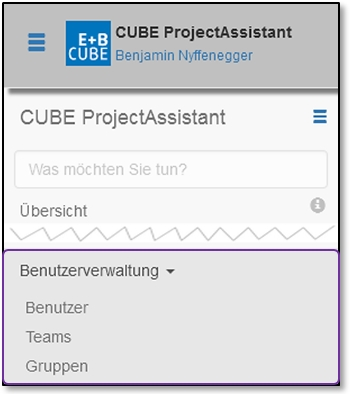
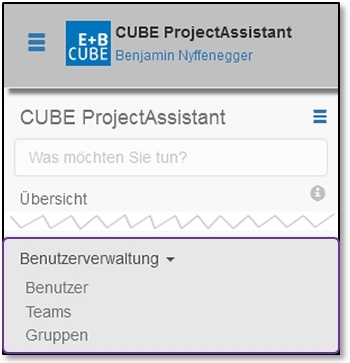
[german] diverse Anpassungen
Verschiedene Anpassungen
- GettingStarted
- Konfiguration
- Benutzerverwaltung

diff --git a/german/chapters/13_Konfigurationen/13_Konfigurationen.tex b/german/chapters/13_Konfigurationen/13_Konfigurationen.tex
@@ -98,6 +98,28 @@ Tag Typen, welche für die Kategorisierung von Dokumenten verwendet werden solle
 % \label{fig:speciation}
 \end{figure}
 
+\textbf{Erstellen einer Tagstruktur für die Dokumentenablage}
+
+\vspace{\baselineskip}
+
+\begin{wrapfigure}[9]{l}{6cm}
+\vspace{-30pt}
+\includegraphics[height=70mm]{../chapters/13_Konfigurationen/pictures/DokTagStruktur.jpg}
+% \caption{Status ändern}
+\end{wrapfigure}
+
+In der Dokumentenablage können Sie einfache oder komplexe Datenstrukturen abbilden. Diese sind mit einem Ordnersystem in Windows mit verschiedenen Ebenen zu vergleichen. Die Dokumente können anschliessend in dieser Struktur mittels zuweisen von Tags 'positioniert' werden. Mehrere Zuweisungen sind möglich. Beispielsweise soll ein Dokument unter 'Bahnsysteme', 'Bahnbetrieb' und 'Deutsch' gefunden werden.
+
+\vspace{3cm} 
+
+Schematischer Aufbau einer Struktur mit mehreren Ebenen:
+
+\begin{figure}[H]
+\center{\includegraphics[width=.8\linewidth]{../chapters/13_Konfigurationen/pictures/Tagstruktur.jpg}}
+\caption{Tag-Struktur erstellen}
+% \label{fig:speciation}
+\end{figure}
+
 \subsection{Projektpläne}
 
 Es können mehrere Projektpläne (z.B. Detailterminprogramm, Terminprogramme für Teilprojekte) erstellt werden, für welche mit der Funktion 'Importieren' (dann  'Termin Daten') separate Datensätze eingelesen werden können.
@@ -110,6 +132,7 @@ Es können mehrere Projektpläne (z.B. Detailterminprogramm, Terminprogramme fü
 
 Alle erfassten Projektpläne werden hier aufgelistet. Sie können in der Detailansicht betrachtet oder geändert werden. Unter diesem Konfigurationspunkt werden ebenfalls neue Einträge erstellt.
 
+\pagebreak
 \subsection{Beteiligte}
 \label{bkm:Ref2018071602}
 
@@ -138,7 +161,7 @@ Die Checkboxen unten 'Ist Firma', 'Ist Arbeitgeber' etc. ermöglichen die Auswah
 \vspace{\baselineskip}
 \vspace{\baselineskip}
 
-
+\pagebreak
 \subsection{Adressen}
 
 Adressen sind in aller Regel Sitzungszimmer. Es können jedoch auch Standorte (ohne Sitzungszimmerfunktion) erfasst werden. Entsprechend ist bei 'Ist Sitzungszimmer' beim Erfassen einer Adresse das Häkchen zu setzen oder leer zu lassen.

diff --git a/german/chapters/02_GettingStarted/02_GettingStarted.tex b/german/chapters/02_GettingStarted/02_GettingStarted.tex
@@ -380,12 +380,23 @@ Sie haben die Möglichkeit durch Klick 'Auf Seite bleiben' zurückzukehren und d
 Bei der Eingabe von Daten gibt es Pflichtfelder (mit einem * markiert), welche zwingend ausgefüllt werden müssen. Wird ein solches Pflichtfeld übersehen, erscheint folgende Meldung:
 
 \begin{figure}[H]
-\center{\includegraphics[width=1\linewidth]{../chapters/02_GettingStarted/pictures/2-5-4_WarnungPflichfelder}}
+\center{\includegraphics[width=1\linewidth]{../chapters/02_GettingStarted/pictures/2-5-4_WarnungPflichfelder.jpg}}
 \caption{Warnung Eingabe bei Pflichtfeld}
 % \label{fig:speciation}
 \end{figure}
 
 Mit roter Schrift wird dann jeweils das Feld bezeichnet, welches ausgefüllt werden muss (Dieses Feld ist ein Pflichtfeld). Die Hinweismeldung kann mittels 'OK' weggeklickt werden. Erst nach einer Eingabe ist es möglich die Daten zu speichern und z.B. ein neues Dokument anzulegen. 
+
+\pagebreak
+\textbf{Bereits verwendete Email-Adresse:}
+
+Im CUBE PA kann eine Email-Adresse nur einmal verwendet werden. Falls Sie versuchen eine neue Person mit bereits vorhandender Email-Adresse anzulegen, erhalten Sie folgende Meldung:
+
+\begin{figure}[H]
+\center{\includegraphics[width=.4\linewidth]{../chapters/02_GettingStarted/pictures/getS_Fehler_vorhEmail.jpg}}
+\caption{Bereits verwendete Email-Adresse}
+% \label{fig:speciation}
+\end{figure}
 
 \vspace{\baselineskip}
 

diff --git a/german/chapters/14_Benutzerverwaltung/14_Benutzerverwaltung.tex b/german/chapters/14_Benutzerverwaltung/14_Benutzerverwaltung.tex
@@ -2,7 +2,7 @@
 \clearpage
 \section{Benutzerverwaltung}
 
-\begin{wrapfigure}[7]{l}{6.5cm}   % [x] Wie manche Zeile soll sich um die Grafik "brechen"
+\begin{wrapfigure}[6]{l}{6.5cm}   % [x] Wie manche Zeile soll sich um die Grafik "brechen"
   \vspace{-35pt}      % Grundwert war 20; mit 30 schön oben beim Text ausgerichtet
   \begin{center}
     \includegraphics[width=1\linewidth]{../chapters/14_Benutzerverwaltung/pictures/14_Menu_Benutzerverwaltung.jpg}
@@ -22,7 +22,7 @@ Die Benutzerverwaltung ist nur bei Personen eingeblendet, welche dafür berechti
 
 \textbf{Übersicht:}
 
-\vspace{\baselineskip}
+\vspace{.3cm}  
 
 \textbf{Benutzer}: Bei den Benutzern werden sämtliche Personen, welche mit CUBE PA einen Berührungspunkt haben, erfasst. Hier erfolgen die Zuordnungen \ zu Tags, Sitzungsarten, Teams etc. Zudem wird festgelegt, ob ein Benutzer auch einen Zugang zum CUBE PA erhält oder nur bei Auswahlfeldern (bei Sitzungen, Beschaffungen, Dokumentenberechtigungen etc.) aufgelistet werden soll. Erfasste Benutzer können bei der Adressliste ausgeblendet werden. Ein wesentliches 'Steuerungselement' sind die Berechtigungsrollen, welche hier einem Benutzer gegeben werden können (z.B. Administrator).
 

diff --git a/german/CUBEPA_Handbuch.tex b/german/CUBEPA_Handbuch.tex
@@ -84,7 +84,7 @@
 \HRule \\[1.5cm]
 
 \textsf{\Large Benutzerhandbuch}\\[0.5cm] % Major heading such as course name
-\textsf{\large Version 2.11 / 24.09.2018}\\[0.5cm] % Minor heading such as course title
+\textsf{\large Version 2.11 / 25.09.2018}\\[0.5cm] % Minor heading such as course title
 
 
 \pagebreak
@@ -100,13 +100,13 @@
 \begin{tabular}{lp{12cm}}
 Auftragsnummer & BE.N.\\
 Auftraggeber & .\\
-Datum & 24.09.2018\\
+Datum & 25.09.2018\\
 Version & 2.11\\
 Autoren & Dieter Schopfer, Benjamin Nyffenegger, Rayane Zahreddine, Adrian Johner, Markus Schafroth, Simon Heimberg\\
 Freigabe & Markus Schafroth\\
 Verteilen & .\\
 Datei & .\\
-Seitenzahl & 240 (inkl. QuickRef / Kurzanleitungen)\\
+Seitenzahl & 242 (inkl. QuickRef / Kurzanleitungen)\\
 Copyright & \copyright{ Emch+Berger AG Bern}\\
 \end{tabular}
 
